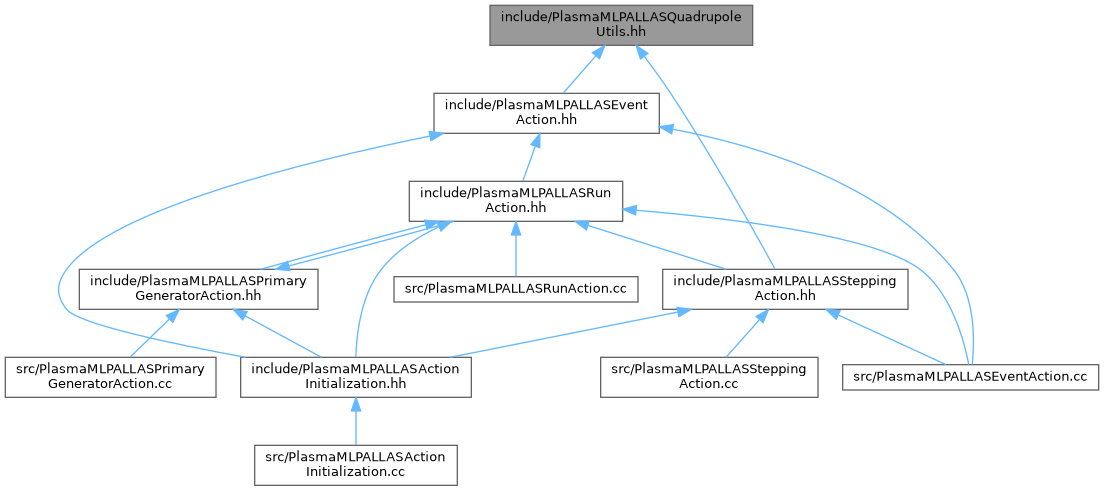
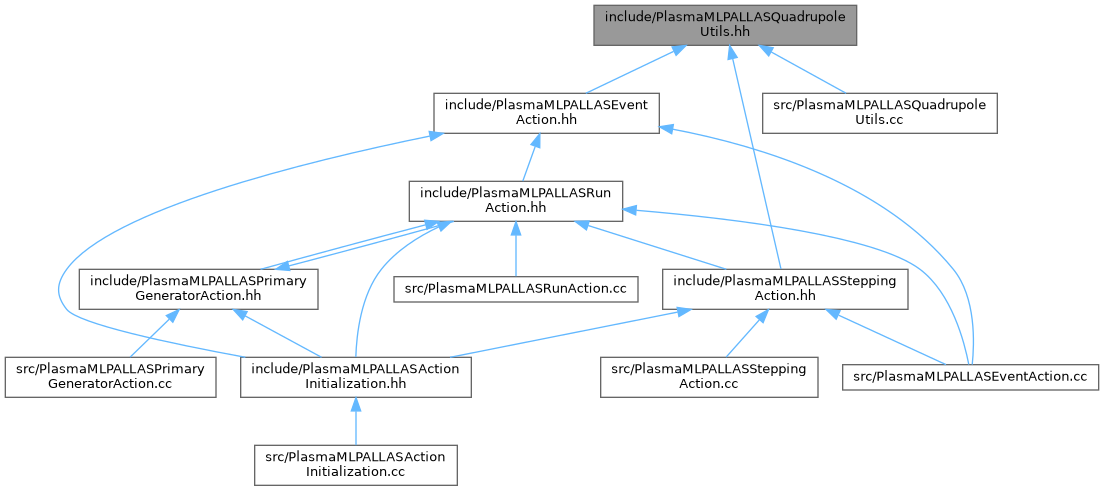
deploy: 0aa2ac6d7f5f67435adb9488a65a0ab80fdb8f38

diff --git a/dir_000001_000000.html b/dir_000001_000000.html
@@ -73,7 +73,7 @@ $(function() {
 </div>
 </div><!-- top -->
 <div class="contents">
-<h3>src &rarr; include Relation</h3><table class="dirtab"><tr class="dirtab"><th class="dirtab">File in src</th><th class="dirtab">Includes file in include</th></tr><tr class="dirtab"><td class="dirtab"><a class="el" href="Geometry_8cc.html">Geometry.cc</a></td><td class="dirtab"><a class="el" href="Geometry_8hh.html">Geometry.hh</a></td></tr><tr class="dirtab"><td class="dirtab"><a class="el" href="PlasmaMLPALLASActionInitialization_8cc.html">PlasmaMLPALLASActionInitialization.cc</a></td><td class="dirtab"><a class="el" href="PlasmaMLPALLASActionInitialization_8hh.html">PlasmaMLPALLASActionInitialization.hh</a></td></tr><tr class="dirtab"><td class="dirtab"><a class="el" href="PlasmaMLPALLASEventAction_8cc.html">PlasmaMLPALLASEventAction.cc</a></td><td class="dirtab"><a class="el" href="PlasmaMLPALLASEventAction_8hh.html">PlasmaMLPALLASEventAction.hh</a></td></tr><tr class="dirtab"><td class="dirtab"><a class="el" href="PlasmaMLPALLASEventAction_8cc.html">PlasmaMLPALLASEventAction.cc</a></td><td class="dirtab"><a class="el" href="PlasmaMLPALLASRunAction_8hh.html">PlasmaMLPALLASRunAction.hh</a></td></tr><tr class="dirtab"><td class="dirtab"><a class="el" href="PlasmaMLPALLASEventAction_8cc.html">PlasmaMLPALLASEventAction.cc</a></td><td class="dirtab"><a class="el" href="PlasmaMLPALLASSteppingAction_8hh.html">PlasmaMLPALLASSteppingAction.hh</a></td></tr><tr class="dirtab"><td class="dirtab"><a class="el" href="PlasmaMLPALLASGeometryConstruction_8cc.html">PlasmaMLPALLASGeometryConstruction.cc</a></td><td class="dirtab"><a class="el" href="PlasmaMLPALLASGeometryConstruction_8hh.html">PlasmaMLPALLASGeometryConstruction.hh</a></td></tr><tr class="dirtab"><td class="dirtab"><a class="el" href="PlasmaMLPALLASGeometryConstruction_8cc.html">PlasmaMLPALLASGeometryConstruction.cc</a></td><td class="dirtab"><a class="el" href="PlasmaMLPALLASGeometryMessenger_8hh.html">PlasmaMLPALLASGeometryMessenger.hh</a></td></tr><tr class="dirtab"><td class="dirtab"><a class="el" href="PlasmaMLPALLASGeometryMessenger_8cc.html">PlasmaMLPALLASGeometryMessenger.cc</a></td><td class="dirtab"><a class="el" href="PlasmaMLPALLASGeometryMessenger_8hh.html">PlasmaMLPALLASGeometryMessenger.hh</a></td></tr><tr class="dirtab"><td class="dirtab"><a class="el" href="PlasmaMLPALLASMagneticField_8cc.html">PlasmaMLPALLASMagneticField.cc</a></td><td class="dirtab"><a class="el" href="PlasmaMLPALLASMagneticField_8hh.html">PlasmaMLPALLASMagneticField.hh</a></td></tr><tr class="dirtab"><td class="dirtab"><a class="el" href="PlasmaMLPALLASOnnxInference_8cc.html">PlasmaMLPALLASOnnxInference.cc</a></td><td class="dirtab"><a class="el" href="PlasmaMLPALLASOnnxInference_8hh.html">PlasmaMLPALLASOnnxInference.hh</a></td></tr><tr class="dirtab"><td class="dirtab"><a class="el" href="PlasmaMLPALLASPhysics_8cc.html">PlasmaMLPALLASPhysics.cc</a></td><td class="dirtab"><a class="el" href="PlasmaMLPALLASPhysics_8hh.html">PlasmaMLPALLASPhysics.hh</a></td></tr><tr class="dirtab"><td class="dirtab"><a class="el" href="PlasmaMLPALLASPrimaryGeneratorAction_8cc.html">PlasmaMLPALLASPrimaryGeneratorAction.cc</a></td><td class="dirtab"><a class="el" href="PlasmaMLPALLASPrimaryGeneratorAction_8hh.html">PlasmaMLPALLASPrimaryGeneratorAction.hh</a></td></tr><tr class="dirtab"><td class="dirtab"><a class="el" href="PlasmaMLPALLASPrimaryGeneratorMessenger_8cc.html">PlasmaMLPALLASPrimaryGeneratorMessenger.cc</a></td><td class="dirtab"><a class="el" href="PlasmaMLPALLASPrimaryGeneratorMessenger_8hh.html">PlasmaMLPALLASPrimaryGeneratorMessenger.hh</a></td></tr><tr class="dirtab"><td class="dirtab"><a class="el" href="PlasmaMLPALLASRunAction_8cc.html">PlasmaMLPALLASRunAction.cc</a></td><td class="dirtab"><a class="el" href="PlasmaMLPALLASRunAction_8hh.html">PlasmaMLPALLASRunAction.hh</a></td></tr><tr class="dirtab"><td class="dirtab"><a class="el" href="PlasmaMLPALLASSteppingAction_8cc.html">PlasmaMLPALLASSteppingAction.cc</a></td><td class="dirtab"><a class="el" href="PlasmaMLPALLASSteppingAction_8hh.html">PlasmaMLPALLASSteppingAction.hh</a></td></tr></table></div><!-- contents -->
+<h3>src &rarr; include Relation</h3><table class="dirtab"><tr class="dirtab"><th class="dirtab">File in src</th><th class="dirtab">Includes file in include</th></tr><tr class="dirtab"><td class="dirtab"><a class="el" href="Geometry_8cc.html">Geometry.cc</a></td><td class="dirtab"><a class="el" href="Geometry_8hh.html">Geometry.hh</a></td></tr><tr class="dirtab"><td class="dirtab"><a class="el" href="PlasmaMLPALLASActionInitialization_8cc.html">PlasmaMLPALLASActionInitialization.cc</a></td><td class="dirtab"><a class="el" href="PlasmaMLPALLASActionInitialization_8hh.html">PlasmaMLPALLASActionInitialization.hh</a></td></tr><tr class="dirtab"><td class="dirtab"><a class="el" href="PlasmaMLPALLASEventAction_8cc.html">PlasmaMLPALLASEventAction.cc</a></td><td class="dirtab"><a class="el" href="PlasmaMLPALLASEventAction_8hh.html">PlasmaMLPALLASEventAction.hh</a></td></tr><tr class="dirtab"><td class="dirtab"><a class="el" href="PlasmaMLPALLASEventAction_8cc.html">PlasmaMLPALLASEventAction.cc</a></td><td class="dirtab"><a class="el" href="PlasmaMLPALLASRunAction_8hh.html">PlasmaMLPALLASRunAction.hh</a></td></tr><tr class="dirtab"><td class="dirtab"><a class="el" href="PlasmaMLPALLASEventAction_8cc.html">PlasmaMLPALLASEventAction.cc</a></td><td class="dirtab"><a class="el" href="PlasmaMLPALLASSteppingAction_8hh.html">PlasmaMLPALLASSteppingAction.hh</a></td></tr><tr class="dirtab"><td class="dirtab"><a class="el" href="PlasmaMLPALLASGeometryConstruction_8cc.html">PlasmaMLPALLASGeometryConstruction.cc</a></td><td class="dirtab"><a class="el" href="PlasmaMLPALLASGeometryConstruction_8hh.html">PlasmaMLPALLASGeometryConstruction.hh</a></td></tr><tr class="dirtab"><td class="dirtab"><a class="el" href="PlasmaMLPALLASGeometryConstruction_8cc.html">PlasmaMLPALLASGeometryConstruction.cc</a></td><td class="dirtab"><a class="el" href="PlasmaMLPALLASGeometryMessenger_8hh.html">PlasmaMLPALLASGeometryMessenger.hh</a></td></tr><tr class="dirtab"><td class="dirtab"><a class="el" href="PlasmaMLPALLASGeometryMessenger_8cc.html">PlasmaMLPALLASGeometryMessenger.cc</a></td><td class="dirtab"><a class="el" href="PlasmaMLPALLASGeometryMessenger_8hh.html">PlasmaMLPALLASGeometryMessenger.hh</a></td></tr><tr class="dirtab"><td class="dirtab"><a class="el" href="PlasmaMLPALLASMagneticField_8cc.html">PlasmaMLPALLASMagneticField.cc</a></td><td class="dirtab"><a class="el" href="PlasmaMLPALLASMagneticField_8hh.html">PlasmaMLPALLASMagneticField.hh</a></td></tr><tr class="dirtab"><td class="dirtab"><a class="el" href="PlasmaMLPALLASOnnxInference_8cc.html">PlasmaMLPALLASOnnxInference.cc</a></td><td class="dirtab"><a class="el" href="PlasmaMLPALLASOnnxInference_8hh.html">PlasmaMLPALLASOnnxInference.hh</a></td></tr><tr class="dirtab"><td class="dirtab"><a class="el" href="PlasmaMLPALLASPhysics_8cc.html">PlasmaMLPALLASPhysics.cc</a></td><td class="dirtab"><a class="el" href="PlasmaMLPALLASPhysics_8hh.html">PlasmaMLPALLASPhysics.hh</a></td></tr><tr class="dirtab"><td class="dirtab"><a class="el" href="PlasmaMLPALLASPrimaryGeneratorAction_8cc.html">PlasmaMLPALLASPrimaryGeneratorAction.cc</a></td><td class="dirtab"><a class="el" href="PlasmaMLPALLASPrimaryGeneratorAction_8hh.html">PlasmaMLPALLASPrimaryGeneratorAction.hh</a></td></tr><tr class="dirtab"><td class="dirtab"><a class="el" href="PlasmaMLPALLASPrimaryGeneratorMessenger_8cc.html">PlasmaMLPALLASPrimaryGeneratorMessenger.cc</a></td><td class="dirtab"><a class="el" href="PlasmaMLPALLASPrimaryGeneratorMessenger_8hh.html">PlasmaMLPALLASPrimaryGeneratorMessenger.hh</a></td></tr><tr class="dirtab"><td class="dirtab"><a class="el" href="PlasmaMLPALLASQuadrupoleUtils_8cc.html">PlasmaMLPALLASQuadrupoleUtils.cc</a></td><td class="dirtab"><a class="el" href="PlasmaMLPALLASQuadrupoleUtils_8hh.html">PlasmaMLPALLASQuadrupoleUtils.hh</a></td></tr><tr class="dirtab"><td class="dirtab"><a class="el" href="PlasmaMLPALLASRunAction_8cc.html">PlasmaMLPALLASRunAction.cc</a></td><td class="dirtab"><a class="el" href="PlasmaMLPALLASRunAction_8hh.html">PlasmaMLPALLASRunAction.hh</a></td></tr><tr class="dirtab"><td class="dirtab"><a class="el" href="PlasmaMLPALLASSteppingAction_8cc.html">PlasmaMLPALLASSteppingAction.cc</a></td><td class="dirtab"><a class="el" href="PlasmaMLPALLASSteppingAction_8hh.html">PlasmaMLPALLASSteppingAction.hh</a></td></tr></table></div><!-- contents -->
 <!-- start footer part -->
 <hr class="footer"/><address class="footer"><small>
 Generated by&#160;<a href="https://www.doxygen.org/index.html"><img class="footer" src="doxygen.svg" width="104" height="31" alt="doxygen"/></a> 1.9.8

diff --git a/PlasmaMLPALLASQuadrupoleUtils_8cc.html b/PlasmaMLPALLASQuadrupoleUtils_8cc.html
@@ -81,7 +81,18 @@ $(function() {
 
 <p>Utility functions for updating quadrupole vectors in simulation statistics.  
 <a href="#details">More...</a></p>
-<table class="memberdecls">
+<div class="textblock"><code>#include &quot;<a class="el" href="PlasmaMLPALLASQuadrupoleUtils_8hh_source.html">PlasmaMLPALLASQuadrupoleUtils.hh</a>&quot;</code><br />
+</div><div class="textblock"><div class="dynheader">
+Include dependency graph for PlasmaMLPALLASQuadrupoleUtils.cc:</div>
+<div class="dyncontent">
+<div class="center"><img src="PlasmaMLPALLASQuadrupoleUtils_8cc__incl.png" border="0" usemap="#asrc_2PlasmaMLPALLASQuadrupoleUtils_8cc" alt=""/></div>
+<map name="asrc_2PlasmaMLPALLASQuadrupoleUtils_8cc" id="asrc_2PlasmaMLPALLASQuadrupoleUtils_8cc">
+<area shape="rect" title="Utility functions for updating quadrupole vectors in simulation statistics." alt="" coords="5,5,240,45"/>
+<area shape="rect" href="PlasmaMLPALLASQuadrupoleUtils_8hh.html" title=" " alt="" coords="17,93,229,133"/>
+<area shape="poly" title=" " alt="" coords="125,46,125,79,120,79,120,46"/>
+</map>
+</div>
+</div><table class="memberdecls">
 <tr class="heading"><td colspan="2"><h2 class="groupheader"><a id="func-members" name="func-members"></a>
 Functions</h2></td></tr>
 <tr class="memitem:a7b0098778394b862b0fe684a88b30ceb" id="r_a7b0098778394b862b0fe684a88b30ceb"><td class="memItemLeft" align="right" valign="top">void&#160;</td><td class="memItemRight" valign="bottom"><a class="el" href="PlasmaMLPALLASQuadrupoleUtils_8cc.html#a7b0098778394b862b0fe684a88b30ceb">SetQuadrupoleValue</a> (<a class="el" href="structRunTallyQuadrupoles.html">RunTallyQuadrupoles</a> &amp;stats, <a class="el" href="PlasmaMLPALLASQuadrupoleUtils_8hh.html#a3ca25cc7032f84cd6a4b1466200da0d4">QuadID</a> qid, <a class="el" href="PlasmaMLPALLASQuadrupoleUtils_8hh.html#aa80fe4e9a559009407475c9587214b48">PositionType</a> posType, <a class="el" href="PlasmaMLPALLASQuadrupoleUtils_8hh.html#a4cb1a0efcfdc7d48663a184e37d596a2">VectorType</a> vecType, <a class="el" href="PlasmaMLPALLASQuadrupoleUtils_8hh.html#ae3996976d8ffb3e58d88f58227473f8e">Axis</a> axis, float value)</td></tr>
@@ -95,7 +106,7 @@ Functions</h2></td></tr>
 <p>Example usage: </p><div class="fragment"><div class="line"><a class="code hl_function" href="PlasmaMLPALLASQuadrupoleUtils_8hh.html#a7b0098778394b862b0fe684a88b30ceb">SetQuadrupoleValue</a>(stats, <a class="code hl_enumvalue" href="PlasmaMLPALLASQuadrupoleUtils_8hh.html#a3ca25cc7032f84cd6a4b1466200da0d4a8860370af76c01de5337d4626c2678f4">QuadID::Q1</a>, <a class="code hl_enumvalue" href="PlasmaMLPALLASQuadrupoleUtils_8hh.html#aa80fe4e9a559009407475c9587214b48a1a06729125544cab7cee73195fc044f0">PositionType::Begin</a>, <a class="code hl_enumvalue" href="PlasmaMLPALLASQuadrupoleUtils_8hh.html#a4cb1a0efcfdc7d48663a184e37d596a2a52f5e0bc3859bc5f5e25130b6c7e8881">VectorType::Position</a>, <a class="code hl_enumvalue" href="PlasmaMLPALLASQuadrupoleUtils_8hh.html#ae3996976d8ffb3e58d88f58227473f8ea02129bb861061d1a052c592e2dc6b383">Axis::X</a>, 0.1f);</div>
 <div class="ttc" id="aPlasmaMLPALLASQuadrupoleUtils_8hh_html_a3ca25cc7032f84cd6a4b1466200da0d4a8860370af76c01de5337d4626c2678f4"><div class="ttname"><a href="PlasmaMLPALLASQuadrupoleUtils_8hh.html#a3ca25cc7032f84cd6a4b1466200da0d4a8860370af76c01de5337d4626c2678f4">QuadID::Q1</a></div><div class="ttdeci">@ Q1</div></div>
 <div class="ttc" id="aPlasmaMLPALLASQuadrupoleUtils_8hh_html_a4cb1a0efcfdc7d48663a184e37d596a2a52f5e0bc3859bc5f5e25130b6c7e8881"><div class="ttname"><a href="PlasmaMLPALLASQuadrupoleUtils_8hh.html#a4cb1a0efcfdc7d48663a184e37d596a2a52f5e0bc3859bc5f5e25130b6c7e8881">VectorType::Position</a></div><div class="ttdeci">@ Position</div></div>
-<div class="ttc" id="aPlasmaMLPALLASQuadrupoleUtils_8hh_html_a7b0098778394b862b0fe684a88b30ceb"><div class="ttname"><a href="PlasmaMLPALLASQuadrupoleUtils_8hh.html#a7b0098778394b862b0fe684a88b30ceb">SetQuadrupoleValue</a></div><div class="ttdeci">void SetQuadrupoleValue(RunTallyQuadrupoles &amp;stats, QuadID qid, PositionType posType, VectorType vecType, Axis axis, float value)</div><div class="ttdoc">Sets a specific component of a quadrupole vector.</div><div class="ttdef"><b>Definition</b> PlasmaMLPALLASQuadrupoleUtils.cc:52</div></div>
+<div class="ttc" id="aPlasmaMLPALLASQuadrupoleUtils_8hh_html_a7b0098778394b862b0fe684a88b30ceb"><div class="ttname"><a href="PlasmaMLPALLASQuadrupoleUtils_8hh.html#a7b0098778394b862b0fe684a88b30ceb">SetQuadrupoleValue</a></div><div class="ttdeci">void SetQuadrupoleValue(RunTallyQuadrupoles &amp;stats, QuadID qid, PositionType posType, VectorType vecType, Axis axis, float value)</div><div class="ttdoc">Sets a specific component of a quadrupole vector.</div><div class="ttdef"><b>Definition</b> PlasmaMLPALLASQuadrupoleUtils.cc:54</div></div>
 <div class="ttc" id="aPlasmaMLPALLASQuadrupoleUtils_8hh_html_aa80fe4e9a559009407475c9587214b48a1a06729125544cab7cee73195fc044f0"><div class="ttname"><a href="PlasmaMLPALLASQuadrupoleUtils_8hh.html#aa80fe4e9a559009407475c9587214b48a1a06729125544cab7cee73195fc044f0">PositionType::Begin</a></div><div class="ttdeci">@ Begin</div></div>
 <div class="ttc" id="aPlasmaMLPALLASQuadrupoleUtils_8hh_html_ae3996976d8ffb3e58d88f58227473f8ea02129bb861061d1a052c592e2dc6b383"><div class="ttname"><a href="PlasmaMLPALLASQuadrupoleUtils_8hh.html#ae3996976d8ffb3e58d88f58227473f8ea02129bb861061d1a052c592e2dc6b383">Axis::X</a></div><div class="ttdeci">@ X</div></div>
 </div><!-- fragment --><dl class="section author"><dt>Authors</dt><dd>Arnaud HUBER </dd>

diff --git a/PlasmaMLPALLASQuadrupoleUtils_8hh_source.html b/PlasmaMLPALLASQuadrupoleUtils_8hh_source.html
@@ -146,7 +146,7 @@ $(document).ready(function() { init_codefold(0); });
 <div class="ttc" id="aPlasmaMLPALLASQuadrupoleUtils_8hh_html_a4cb1a0efcfdc7d48663a184e37d596a2"><div class="ttname"><a href="PlasmaMLPALLASQuadrupoleUtils_8hh.html#a4cb1a0efcfdc7d48663a184e37d596a2">VectorType</a></div><div class="ttdeci">VectorType</div><div class="ttdef"><b>Definition</b> PlasmaMLPALLASQuadrupoleUtils.hh:71</div></div>
 <div class="ttc" id="aPlasmaMLPALLASQuadrupoleUtils_8hh_html_a4cb1a0efcfdc7d48663a184e37d596a2a37323780191d51a33d295ac10fb98f06"><div class="ttname"><a href="PlasmaMLPALLASQuadrupoleUtils_8hh.html#a4cb1a0efcfdc7d48663a184e37d596a2a37323780191d51a33d295ac10fb98f06">VectorType::Momentum</a></div><div class="ttdeci">@ Momentum</div></div>
 <div class="ttc" id="aPlasmaMLPALLASQuadrupoleUtils_8hh_html_a4cb1a0efcfdc7d48663a184e37d596a2a52f5e0bc3859bc5f5e25130b6c7e8881"><div class="ttname"><a href="PlasmaMLPALLASQuadrupoleUtils_8hh.html#a4cb1a0efcfdc7d48663a184e37d596a2a52f5e0bc3859bc5f5e25130b6c7e8881">VectorType::Position</a></div><div class="ttdeci">@ Position</div></div>
-<div class="ttc" id="aPlasmaMLPALLASQuadrupoleUtils_8hh_html_a7b0098778394b862b0fe684a88b30ceb"><div class="ttname"><a href="PlasmaMLPALLASQuadrupoleUtils_8hh.html#a7b0098778394b862b0fe684a88b30ceb">SetQuadrupoleValue</a></div><div class="ttdeci">void SetQuadrupoleValue(RunTallyQuadrupoles &amp;stats, QuadID qid, PositionType posType, VectorType vecType, Axis axis, float value)</div><div class="ttdoc">Sets a specific component of a quadrupole vector.</div><div class="ttdef"><b>Definition</b> PlasmaMLPALLASQuadrupoleUtils.cc:52</div></div>
+<div class="ttc" id="aPlasmaMLPALLASQuadrupoleUtils_8hh_html_a7b0098778394b862b0fe684a88b30ceb"><div class="ttname"><a href="PlasmaMLPALLASQuadrupoleUtils_8hh.html#a7b0098778394b862b0fe684a88b30ceb">SetQuadrupoleValue</a></div><div class="ttdeci">void SetQuadrupoleValue(RunTallyQuadrupoles &amp;stats, QuadID qid, PositionType posType, VectorType vecType, Axis axis, float value)</div><div class="ttdoc">Sets a specific component of a quadrupole vector.</div><div class="ttdef"><b>Definition</b> PlasmaMLPALLASQuadrupoleUtils.cc:54</div></div>
 <div class="ttc" id="aPlasmaMLPALLASQuadrupoleUtils_8hh_html_aa80fe4e9a559009407475c9587214b48"><div class="ttname"><a href="PlasmaMLPALLASQuadrupoleUtils_8hh.html#aa80fe4e9a559009407475c9587214b48">PositionType</a></div><div class="ttdeci">PositionType</div><div class="ttdef"><b>Definition</b> PlasmaMLPALLASQuadrupoleUtils.hh:68</div></div>
 <div class="ttc" id="aPlasmaMLPALLASQuadrupoleUtils_8hh_html_aa80fe4e9a559009407475c9587214b48a1a06729125544cab7cee73195fc044f0"><div class="ttname"><a href="PlasmaMLPALLASQuadrupoleUtils_8hh.html#aa80fe4e9a559009407475c9587214b48a1a06729125544cab7cee73195fc044f0">PositionType::Begin</a></div><div class="ttdeci">@ Begin</div></div>
 <div class="ttc" id="aPlasmaMLPALLASQuadrupoleUtils_8hh_html_aa80fe4e9a559009407475c9587214b48a87557f11575c0ad78e4e28abedc13b6e"><div class="ttname"><a href="PlasmaMLPALLASQuadrupoleUtils_8hh.html#aa80fe4e9a559009407475c9587214b48a87557f11575c0ad78e4e28abedc13b6e">PositionType::End</a></div><div class="ttdeci">@ End</div></div>

diff --git a/PlasmaMLPALLASQuadrupoleUtils_8hh.html b/PlasmaMLPALLASQuadrupoleUtils_8hh.html
@@ -85,11 +85,13 @@ This graph shows which files directly or indirectly include this file:</div>
 <div class="dyncontent">
 <div class="center"><img src="PlasmaMLPALLASQuadrupoleUtils_8hh__dep__incl.png" border="0" usemap="#ainclude_2PlasmaMLPALLASQuadrupoleUtils_8hhdep" alt=""/></div>
 <map name="ainclude_2PlasmaMLPALLASQuadrupoleUtils_8hhdep" id="ainclude_2PlasmaMLPALLASQuadrupoleUtils_8hhdep">
-<area shape="rect" title=" " alt="" coords="490,5,753,45"/>
+<area shape="rect" title=" " alt="" coords="594,5,857,45"/>
 <area shape="rect" href="PlasmaMLPALLASEventAction_8hh.html" title=" " alt="" coords="434,93,659,133"/>
-<area shape="poly" title=" " alt="" coords="598,58,565,95,561,91,594,54"/>
+<area shape="poly" title=" " alt="" coords="675,54,587,96,585,91,673,49"/>
 <area shape="rect" href="PlasmaMLPALLASSteppingAction_8hh.html" title=" " alt="" coords="663,269,908,309"/>
-<area shape="poly" title=" " alt="" coords="646,55,673,92,733,190,777,267,773,270,729,193,668,95,642,58"/>
+<area shape="poly" title=" " alt="" coords="735,58,784,268,778,270,730,59"/>
+<area shape="rect" href="PlasmaMLPALLASQuadrupoleUtils_8cc.html" title="Utility functions for updating quadrupole vectors in simulation statistics." alt="" coords="763,93,997,133"/>
+<area shape="poly" title=" " alt="" coords="773,50,847,91,845,96,770,54"/>
 <area shape="rect" href="PlasmaMLPALLASActionInitialization_8hh.html" title=" " alt="" coords="241,357,471,397"/>
 <area shape="poly" title=" " alt="" coords="430,139,326,162,217,193,125,230,91,250,69,271,61,289,69,308,90,319,132,331,246,355,245,360,131,336,88,323,65,311,56,290,64,268,88,246,122,225,216,188,325,157,429,133"/>
 <area shape="rect" href="PlasmaMLPALLASRunAction_8hh.html" title=" " alt="" coords="409,181,623,221"/>

diff --git a/dir_68267d1309a1af8e8297ef4c3efbcdba.html b/dir_68267d1309a1af8e8297ef4c3efbcdba.html
@@ -84,7 +84,7 @@ Directory dependency graph for src:</div>
 <area shape="rect" href="dir_68267d1309a1af8e8297ef4c3efbcdba.html" title="src" alt="" coords="19,5,61,31"/>
 <area shape="rect" href="dir_d44c64559bbebec7f509842c48db8b23.html" title="include" alt="" coords="5,79,75,104"/>
 <area shape="poly" href="dir_000001_000000.html" alt="" coords="43,31,43,65,37,65,37,31"/>
-<area shape="rect" href="dir_000001_000000.html" title="15" alt="" coords="40,53,57,68"/>
+<area shape="rect" href="dir_000001_000000.html" title="16" alt="" coords="40,53,57,68"/>
 </map>
 </div>
 <table class="memberdecls">
